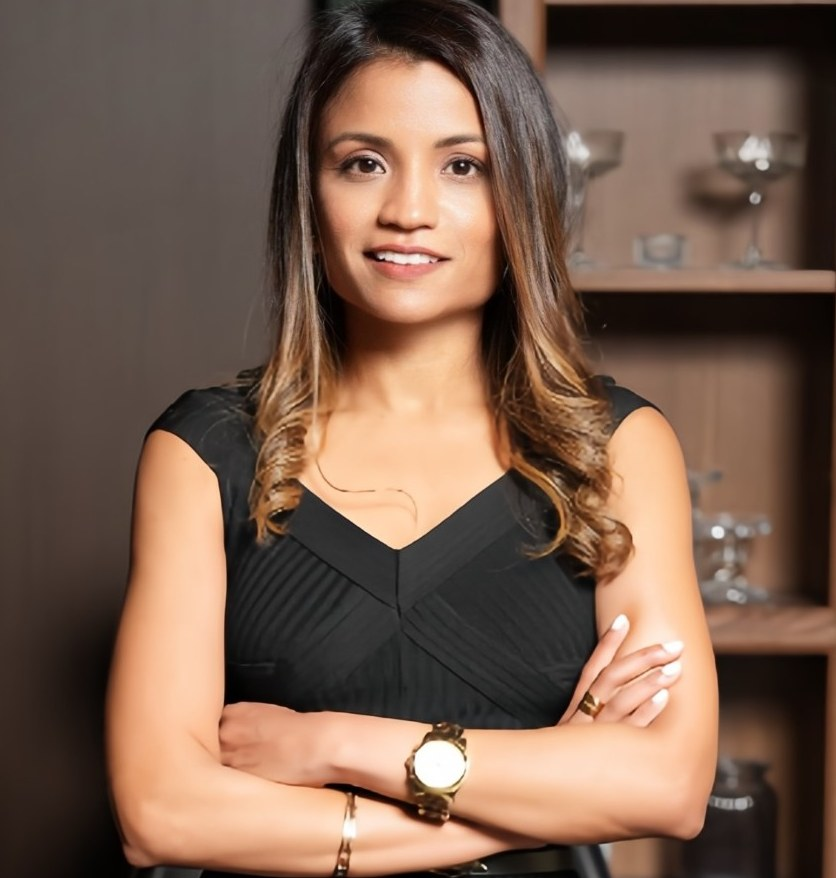
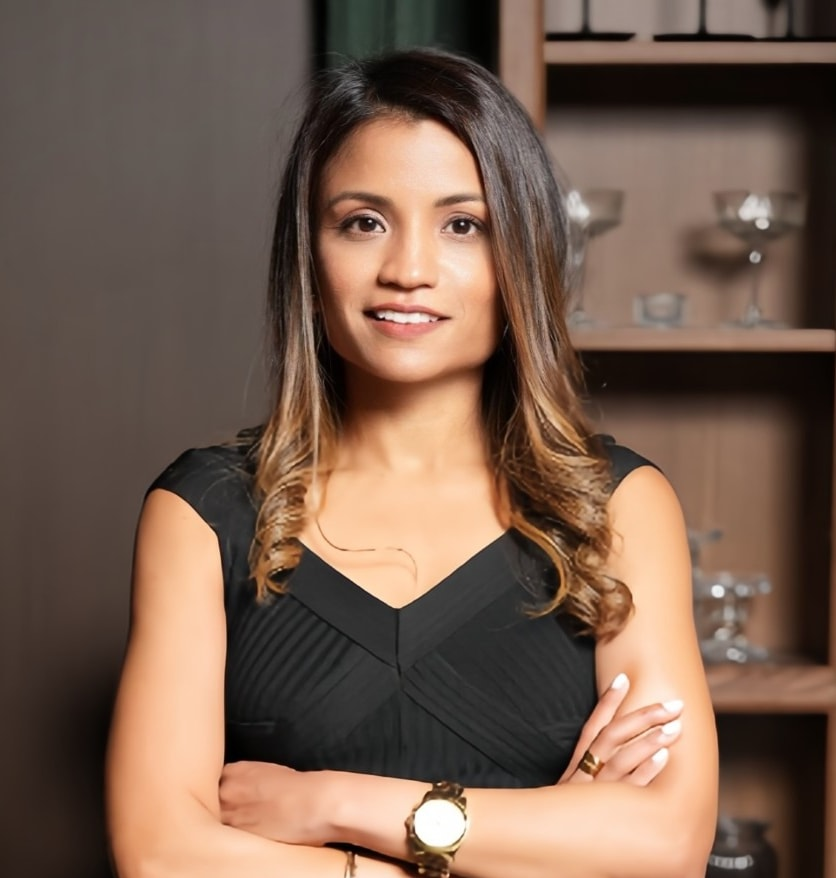
Pass 8 follow-up: the band is gone for real, and Nisha's photo framed as her file
The re-audit of 11f0475 on production, with an independent verifier, found
two things still short of her words.

- v3 slide 11 "remove the band": 11f0475 let the case study shadow fade
  downward (measured: no bottom step), but the sliding list still cut it
  square at the box's own sides (x 144 #F3F0EA against x 143 #F8F4EE), so a
  grey strip near her #EFEEE7 remained. The cards now carry no shadow, the
  slider padding is back to 24px, and the page under the box measures plain
  page colour at every row from 0 to 56px at 1440 and 375. Section gaps
  unchanged (192 / 112). New behaviour assertion on / and /about that the
  cards carry no visible shadow; it counts only visible layers because
  Tailwind computes transparent zero layers rather than "none". Proven against
  production, where it failed on both routes on rgba(1, 51, 37, 0.06) 0px 16px
  48px, and passing on this build.
- v3 slide 5: Nisha's crop started at y 379 of the 1920x2880 original while
  her hair starts near 367, so the top of her head touched the frame; her
  file's picture shows space above it. Re-cut at the same 836x878 from
  (596, 320).
- PENDING-COPY 1g4 and FOR-IRAM-outstanding corrected: 11f0475's record said
  the band was gone, which the re-check showed was not yet true.

Local suite on this build: overflow 57, content 168, links, behaviour 38
clean; reverse audit clean; report 58 / dropped 9 unchanged; contrast 114
cards, same 5; palette clean; copy-lint 3 pre-existing; 78 tests.

diff --git a/src/components/CaseStudies.tsx b/src/components/CaseStudies.tsx
@@ -130,14 +130,11 @@ export default function CaseStudies({
       <ul
         ref={scrollRef}
         onScroll={handleScroll}
-        // pb-16 with -mb-10, 2 OCTOBER: her v3 slide 11, "remove the band".
-        // The band was this list cutting off the cards' soft shadow. A list
-        // that scrolls sideways clips top and bottom too, and pb-6 left 24px,
-        // so the shadow stopped in a straight line: #EDEBE6 down to #F2EFE9,
-        // then the page colour in one step. 64px lets the 16px offset and 48px
-        // blur fade out fully; the -40px margin gives back the 40px added, so
-        // the space to the next element is what it was.
-        className="flex overflow-x-auto snap-x snap-mandatory gap-6 pb-16 -mb-10 pt-2 scroll-smooth"
+        // Her v3 slide 11, "remove the band": the band was this list cutting
+        // off the cards' soft shadow, since a list that scrolls sideways clips
+        // on every side. The cards now carry no shadow (see shadow-none! on
+        // them), so there is nothing here to cut and the padding is as it was.
+        className="flex overflow-x-auto snap-x snap-mandatory gap-6 pb-6 pt-2 scroll-smooth"
         style={{ scrollbarWidth: "none", msOverflowStyle: "none" }}
       >
         {studies.map((study, i) => (
@@ -146,7 +143,15 @@ export default function CaseStudies({
             // Modest breathing room under the results panel, from 30 August,
             // and one class so it is the same on every card rather than three
             // cards that happen to look similar.
-            className="flex flex-shrink-0 w-full snap-center frosted-card-light rounded-[28px] p-5 pb-9 sm:p-8 sm:pb-12 md:px-12 md:pt-9 md:pb-14 shadow-sm"
+            //
+            // NO SHADOW, 2 OCTOBER, her v3 slide 11: "remove the band". The
+            // sliding list clips a shadow on all four sides, so it showed as a
+            // grey strip with square ends, close to her #EFEEE7. Giving it room
+            // below still left the sides cut. Without it the page under the box
+            // is plain #F8F4EE, as it is under the Our fees box, and the white
+            // box is still edged by its border. The important marker is needed
+            // because frosted-card-light sets the shadow in the same layer.
+            className="flex flex-shrink-0 w-full snap-center frosted-card-light rounded-[28px] p-5 pb-9 sm:p-8 sm:pb-12 md:px-12 md:pt-9 md:pb-14 shadow-none!"
           >
             {/* ONE COLUMN OF ARGUMENT, THE PICTURE BESIDE IT.
 

diff --git a/docs/FOR-IRAM-outstanding.md b/docs/FOR-IRAM-outstanding.md
@@ -45,7 +45,7 @@ These are the only things the site is waiting on. Each has something in its plac
 - The services section on the homepage and the Services page is three cards, We diagnose, We lead and We build, as your v3 slide 2 asked. Build and Place is a short note in the Lead card and UAE Market Entry a short note in the Audit card. Neither is in the Services menu. Both are still full pages: Build and Place is reached from the "Need other staff?" block on Fractional Leadership and from the cards that name it on For founders and For corporate leaders, and UAE Market Entry from the UAE Market Entry block on the Audit page.
 - The fractional leadership service card keeps your section 3.4 title, "Fractional COO, CFO and Chief of Staff", with the link "How fractional leadership works". Under the service cards, here and on the Services page, a "Not sure / Start with the diagnostic" panel leads to the diagnostic.
 - The "Our fees" section follows your verbal instruction of 28 August. It sets the traditional model beside the Pivot Prime model, which carries your line "Our fee has a smaller fixed part and then a bigger part linked to the results we achieve for your business." A fee slider lets a visitor set the saving or gain agreed, from AED 100,000 to AED 2,000,000 (starting at AED 400,000), and shows a fixed element of AED 20,000 and a results element of 10 to 20 percent of that figure. It ends with a dark green "Performance linked fees" box: "If we haven't moved your numbers, most of our fee doesn't get paid."
-- Every homepage section now shares one content width and one left edge, with the same space between sections, as your v3 slide 11 asked. The thin line above Who we serve is gone, and so is a second one under the logos. The case study cards and the fees box are both white. The fees box sits at the shared width rather than full width. The logo rows, the results cards and the "More case studies" button sit on the same left edge, and the three white boxes share one inner margin. The grey band under the case studies box was its soft shadow being cut off in a straight line; the shadow now fades out, so the band is gone.
+- Every homepage section now shares one content width and one left edge, with the same space between sections, as your v3 slide 11 asked. The thin line above Who we serve is gone, and so is a second one under the logos. The case study cards and the fees box are both white. The fees box sits at the shared width rather than full width. The logo rows, the results cards and the "More case studies" button sit on the same left edge, and the three white boxes share one inner margin. The grey band under the case studies box was its soft shadow being cut off in straight lines; the shadow is taken off that box, so the page under it is plain and the band is gone.
 - "Meet the CEO & Founder" says "a book worth more than $120 million", from your v3 deck slide 3. Your About biography says "a $120M book", from slide 7 of the 26 September deck. The pages agree, and $100 million no longer appears anywhere.
 - Three case studies are shown, Nurture, Cinnacare and Scentmatic, each with its picture, and a "More case studies" button opens the rest on About.
 - "Find out what is holding your business back." now heads the closing section, which offers a "Take the diagnostic" button and a "Talk to us" button that opens WhatsApp.

diff --git a/docs/PENDING-COPY.md b/docs/PENDING-COPY.md
@@ -6428,8 +6428,11 @@ and the inside margin of the three white boxes, which differed from box to box.
 **Correction to 1g0.** It said there was no grey band. There was. It was the case
 studies box's soft shadow, cut off in a straight line by the sliding panel that
 holds the cards, and it measured #EDEBE6 to #F2EFE9, with your #EFEEE7 inside it.
-The shadow now fades out fully and the band is gone, with the space between
-sections unchanged.
+The soft shadow is now taken off the case studies box, so the page directly under
+it is the plain page colour, as it is under the Our fees box, and the band is
+gone. A first attempt that only gave the shadow room to fade still left its two
+ends cut square at the sides, which the re-check caught. The space between
+sections is unchanged, and the box keeps its fine border.
 
 Two boxes keep their insides as your own designs draw them: the "Start with the
 diagnostic" panel keeps its button on the right, as in your services mock-up, and
@@ -6464,6 +6467,11 @@ reads "what changed", and your comment is later.
 labels, Project Management, Data Analytics, AI & Automation, Finance & Accounting
 and Executive Advisory, are in green as your design has them, and "Project
 Management" has its capital M back.
+
+**Nisha's photograph, your v3 slide 5 file.** The crop cut into the top of her
+hair, where your picture shows a little space above her head. It is re-cut from
+the photograph you sent, the same size and shape, starting 59 pixels higher, at
+(596, 320) of the 1920 by 2880 original instead of (596, 379).
 
 **Khushi's card, your v3 slide 5 file.** On a computer her text now starts at the
 top with the LinkedIn button at the foot, and on a phone her photograph is the same
